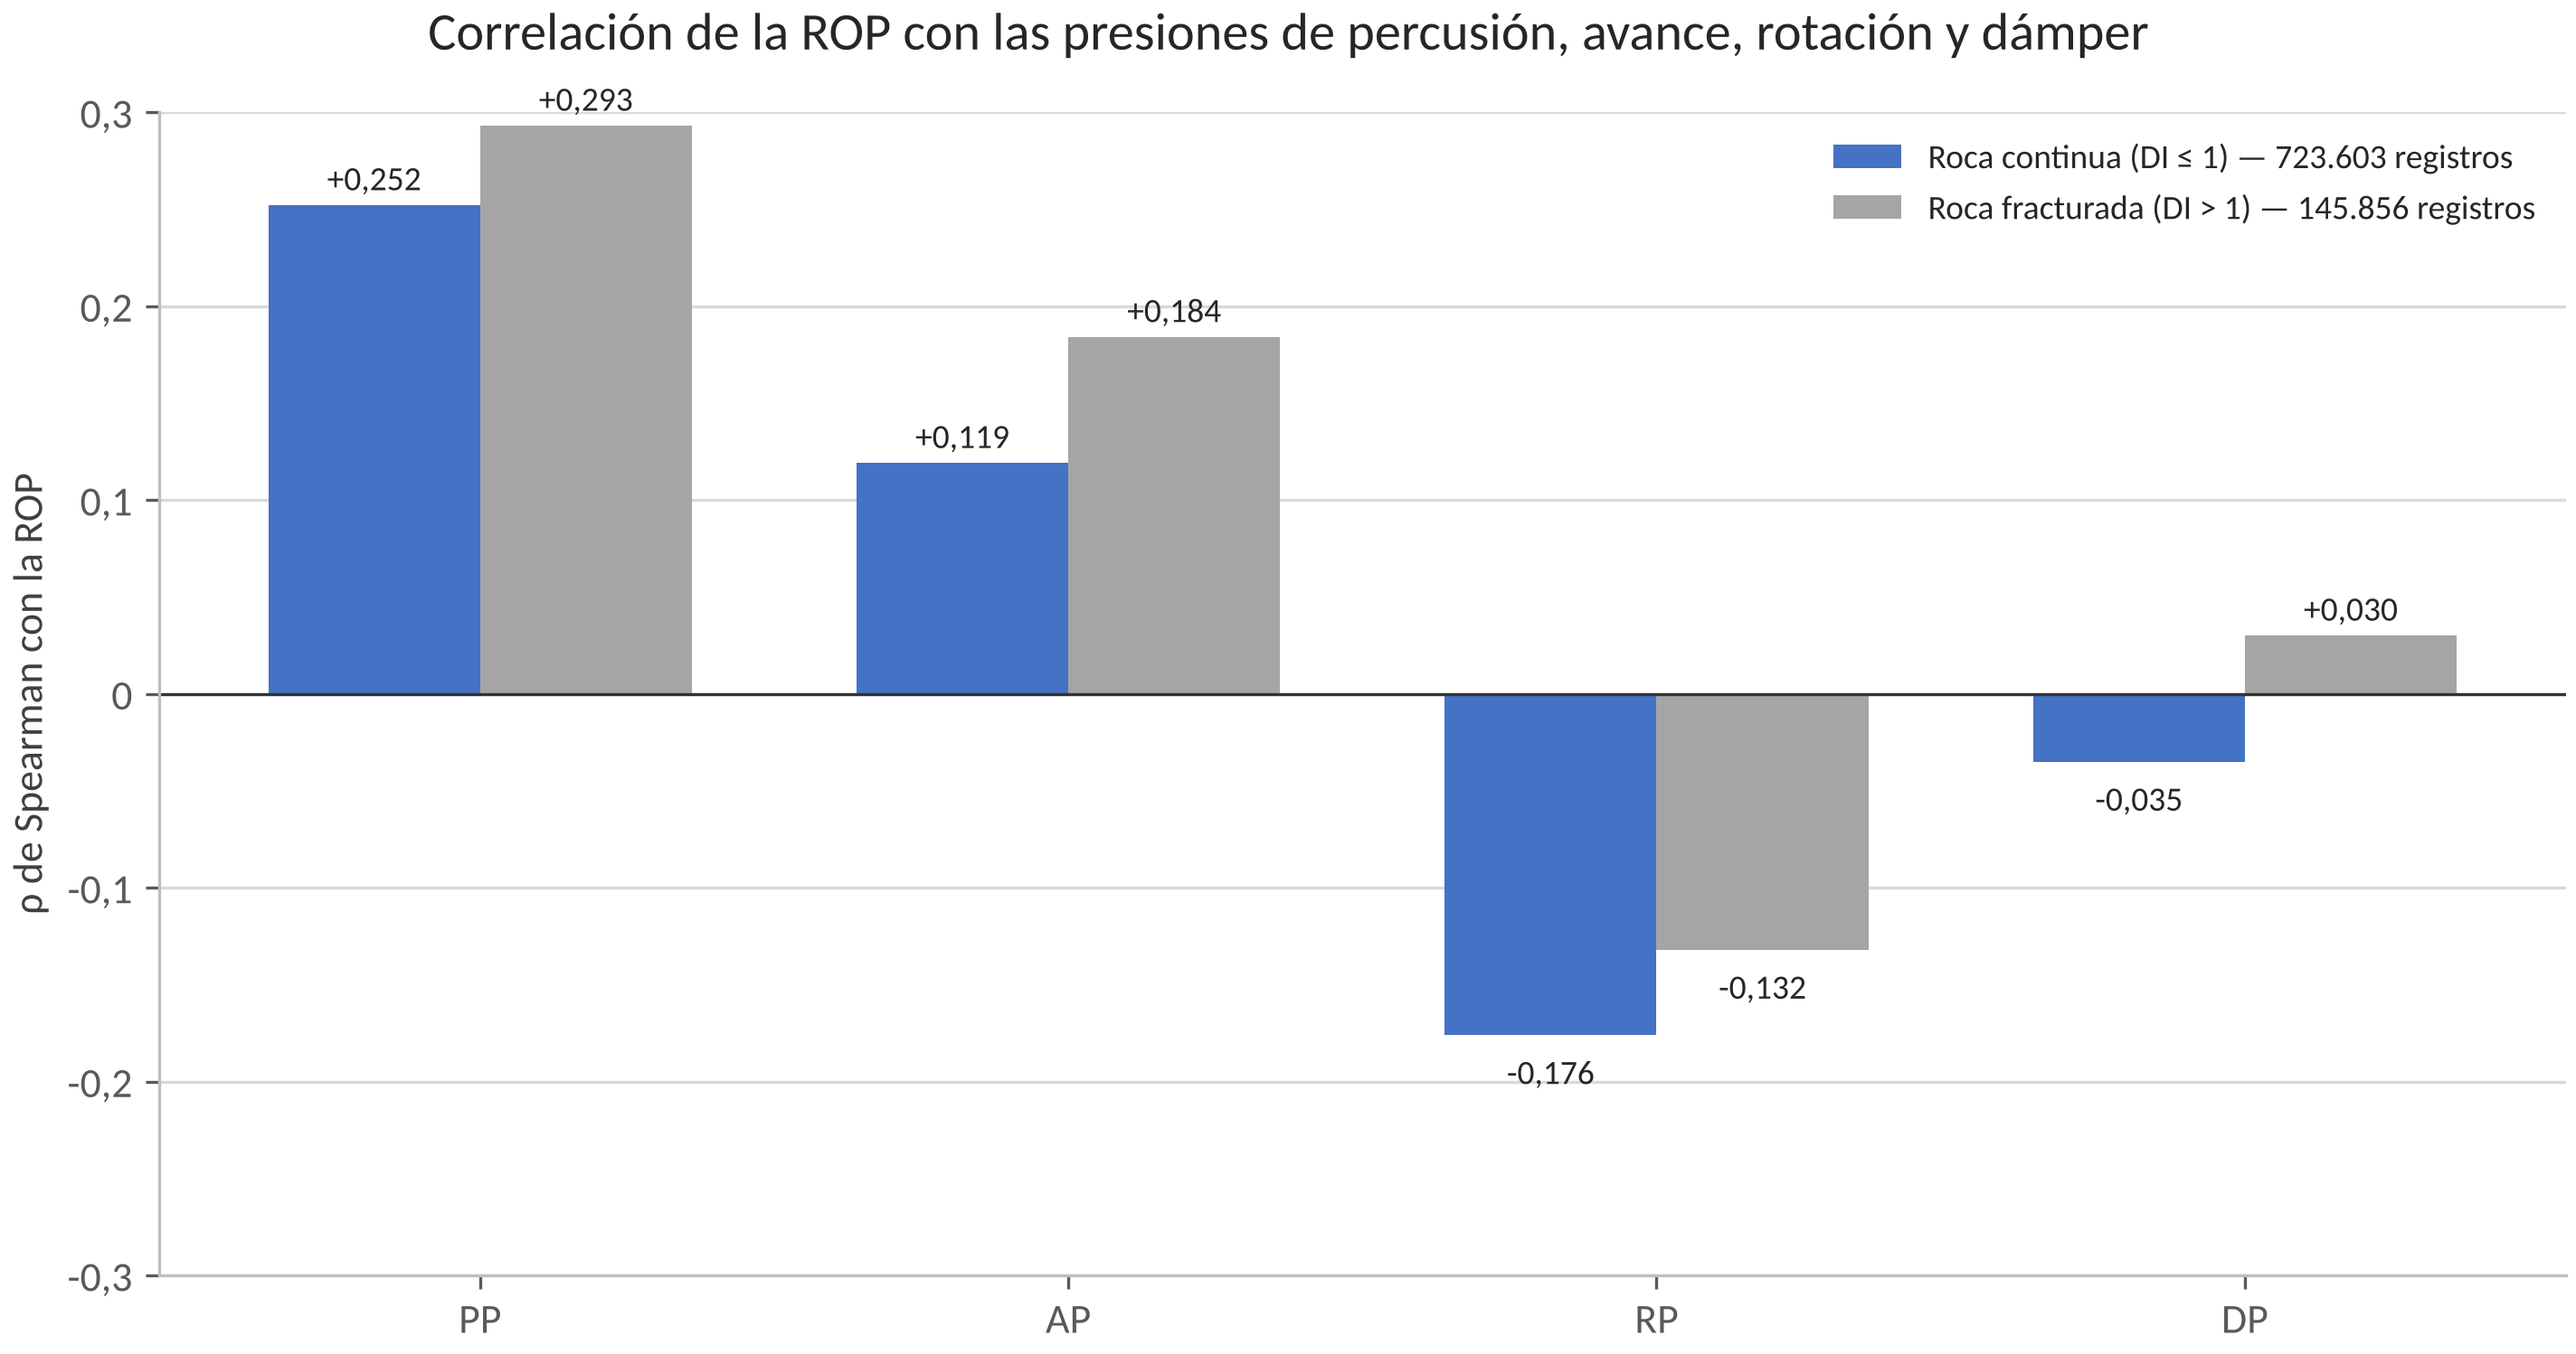
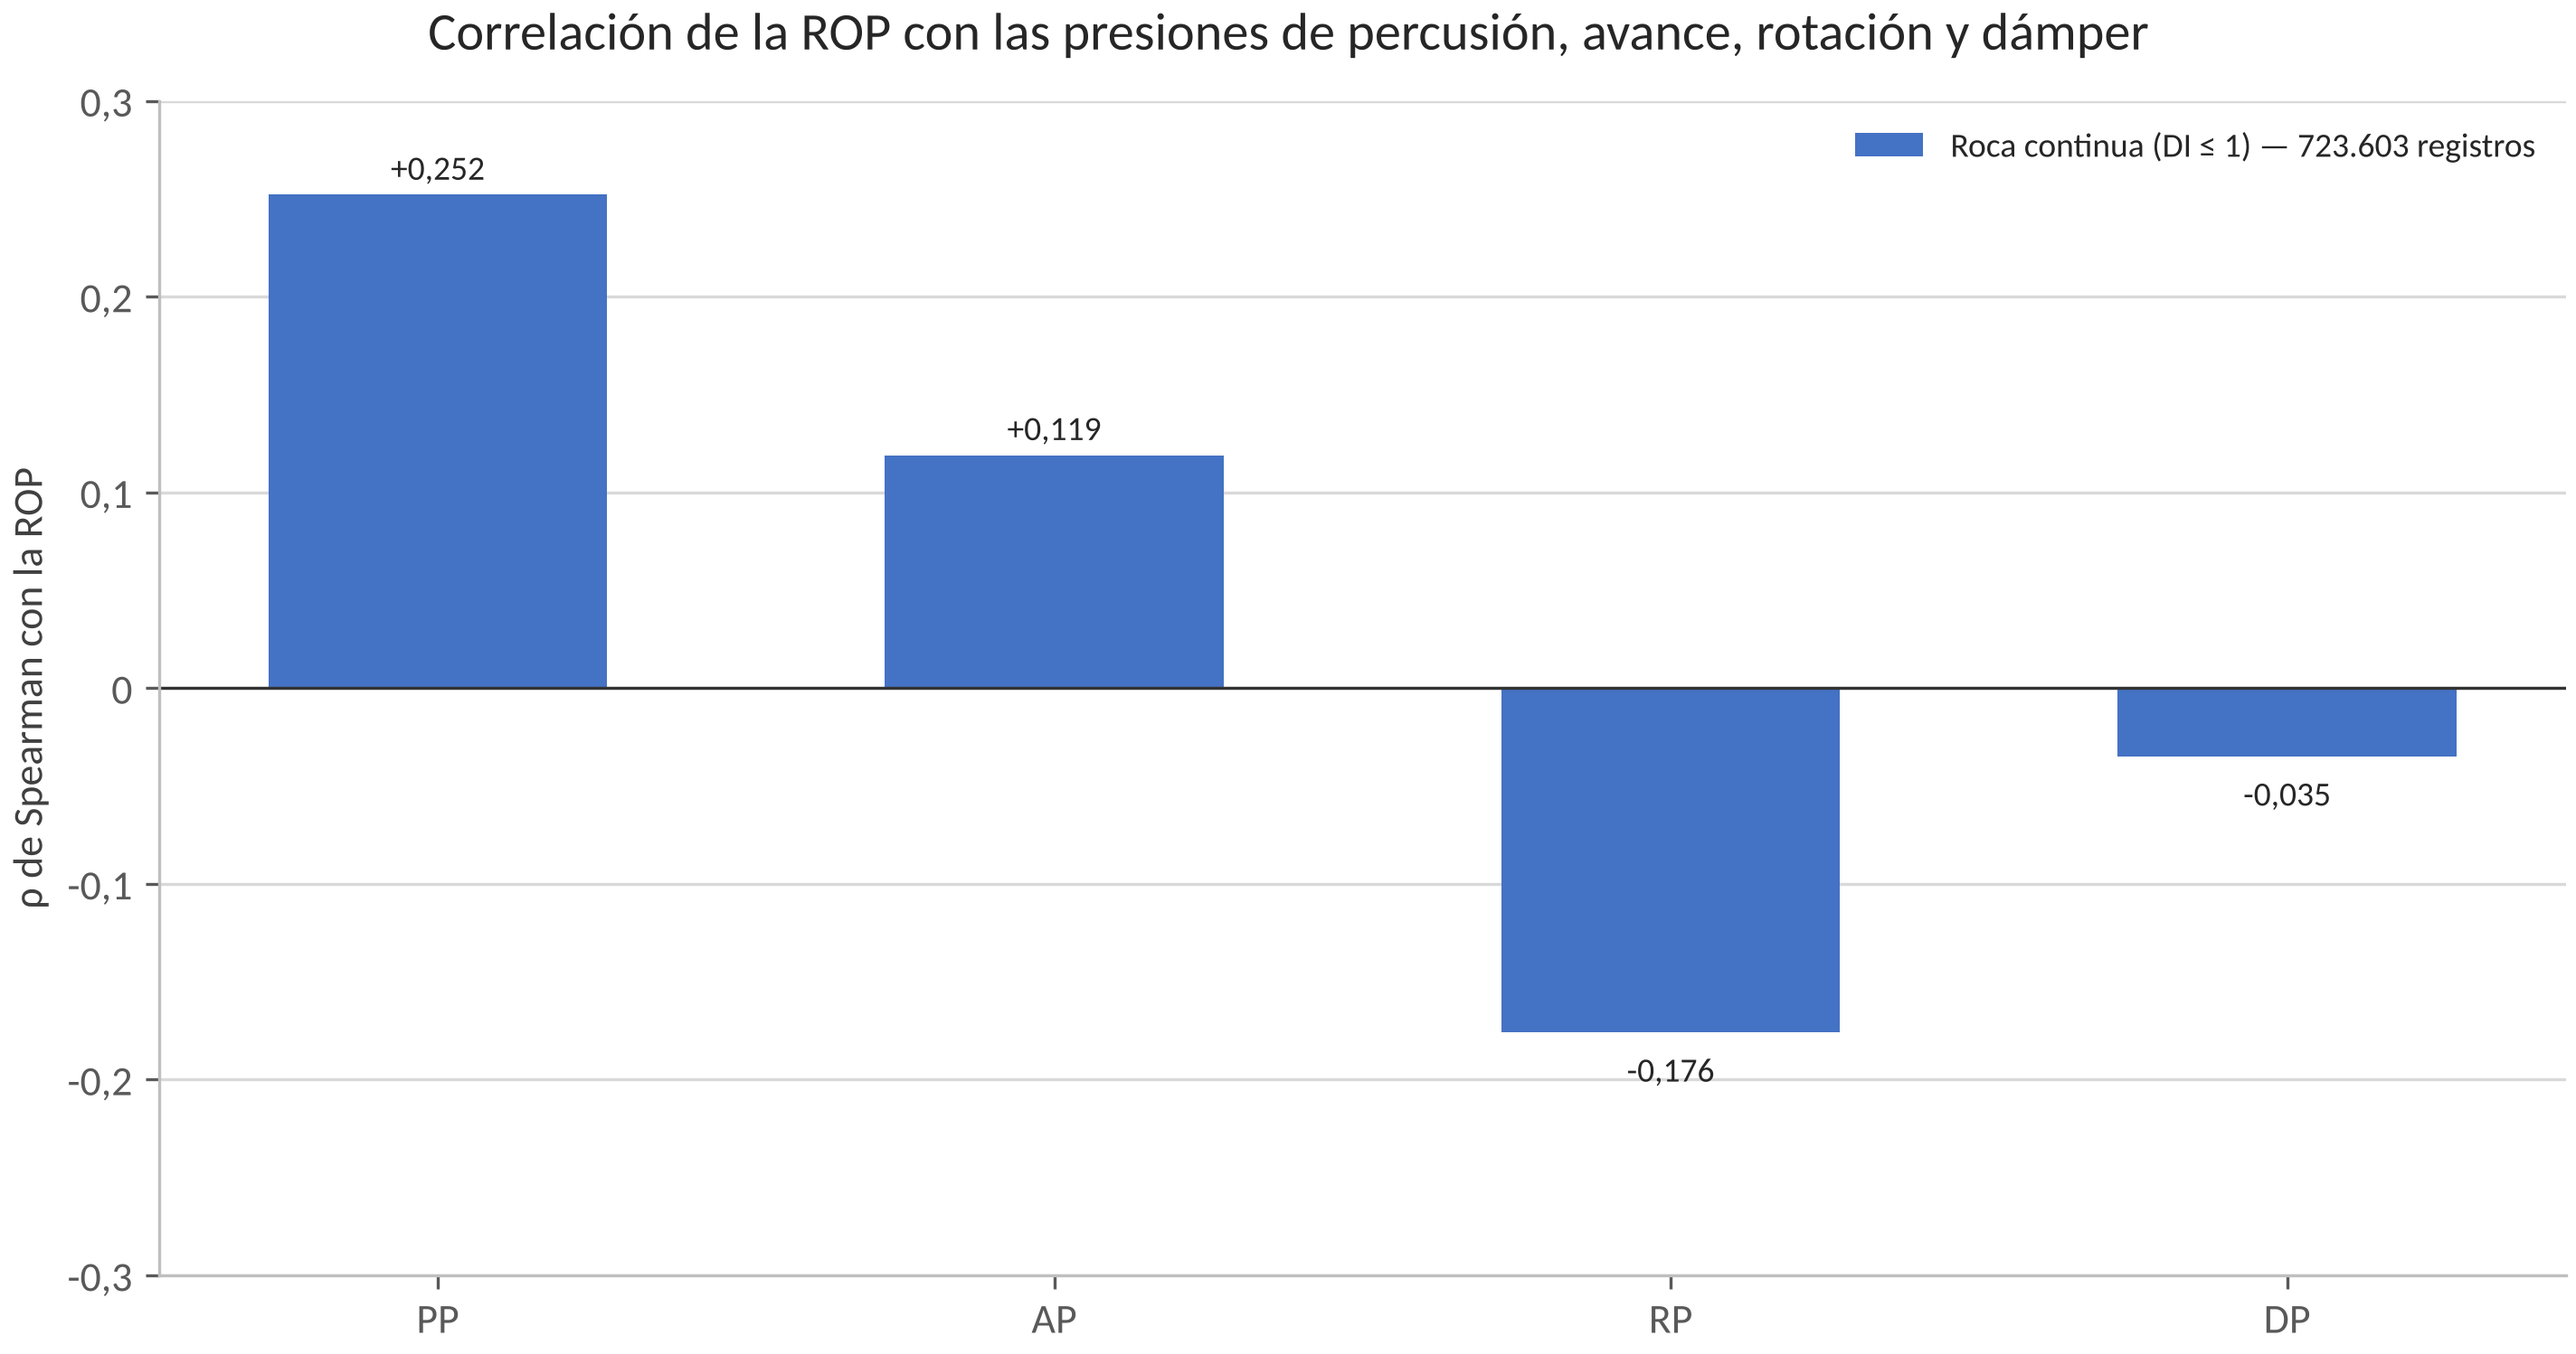
ROP vs presiones: solo roca continua
Claude-Session: https://claude.ai/code/session_01MT9AkNnHr1e9AMWji6YncB

diff --git a/memoria_final/final/final_figs.py b/memoria_final/final/final_figs.py
@@ -812,7 +812,7 @@ if os.path.exists(FRP):
     RC = json.load(open(FRC, encoding="utf-8")) if os.path.exists(FRC) else {"continua": {"n": G0["n"], "n_pozos": G0["n_pozos"],
          "rho": {p: G0["presiones"][p]["rho_simple"] for p in PS}}}
     fig, a1 = plt.subplots(figsize=(9.5, 5))
-    xx = np.arange(len(PS)); clases = [k for k in ("continua", "fracturada") if k in RC]; wd = 0.36
+    xx = np.arange(len(PS)); clases = ["continua"]; wd = 0.55
     for k, (cl, col_) in enumerate(zip(clases, (AZUL, "#A5A5A5"))):
         v = [RC[cl]["rho"][p] for p in PS]
         et = (f"Roca continua (DI ≤ {dec(UMB, 0)})" if cl == "continua" else f"Roca fracturada (DI > {dec(UMB, 0)})") + \
